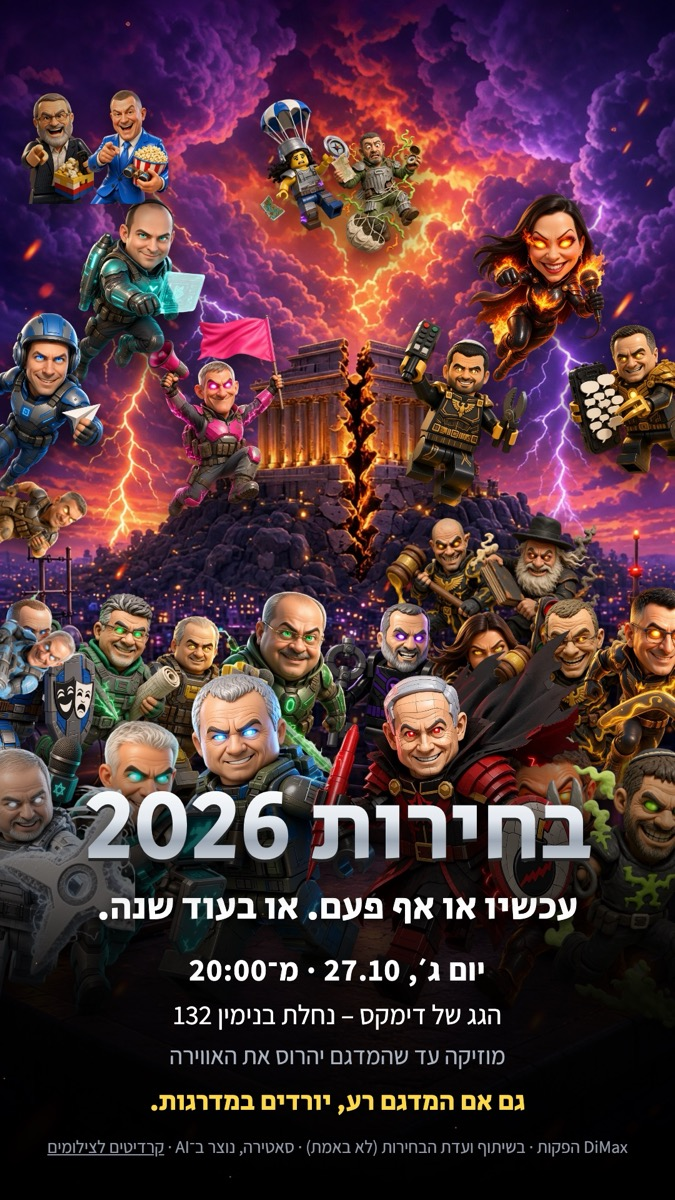
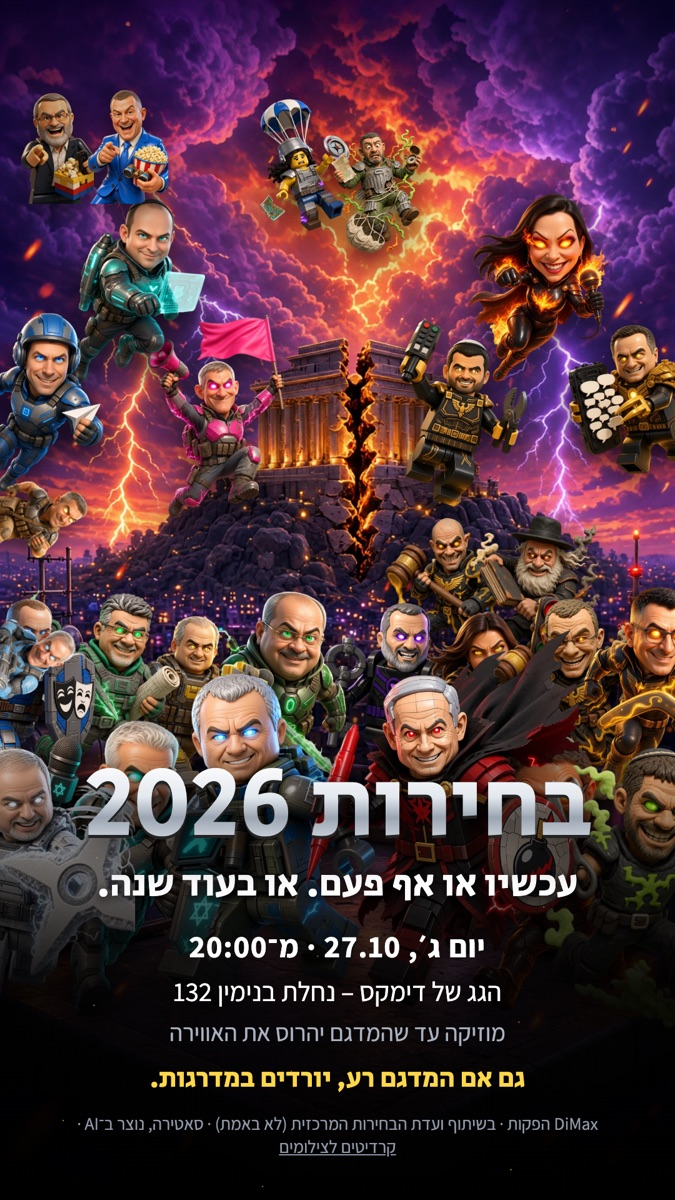
Threshold counts all parties at once, skippable ident, ועדת הבחירות המרכזית, scroll crew removed

Changed region(s): [[0.0622, 0.6167, 0.9022, 0.9867]]

diff --git a/index.html b/index.html
@@ -197,15 +197,8 @@ body.done #more { display: block; }
 ::selection { background: #ffc23a; color: #111; }
 html { scrollbar-color: #3a4266 #07080d; }
 .well { position: sticky; top: 0; height: 100dvh; overflow: hidden; z-index: 0; }
-.well .wall { position: absolute; inset: -2% 0; background: url("img/stairs.jpg") 50% 0 / auto 165% no-repeat; filter: saturate(1.1) brightness(.78); will-change: background-position; }
+.well .wall { position: absolute; inset: -2% 0; background: url("img/stairs.jpg") 50% 40% / cover no-repeat; filter: saturate(1.1) brightness(.7); }
 .well::after { content: ""; position: absolute; inset: 0; pointer-events: none; background: linear-gradient(#07080d 0, transparent 14%, transparent 80%, #07080dcc); }
-.well .floor { position: absolute; top: 9%; inset-inline-end: 5%; direction: ltr; font: italic 900 52cqw/.8 var(--f-mark); font-stretch: 115%; color: #ffffff26; -webkit-text-stroke: .35cqw #ffffff59; mix-blend-mode: screen; pointer-events: none; }
-.crew { position: sticky; top: 0; height: 100dvh; margin-bottom: -100dvh; z-index: 2; pointer-events: none !important; }
-.run { pointer-events: auto; transition: opacity .25s; }
-.run { position: absolute; left: 0; top: 0; width: 30cqw; height: 30cqw; margin: -29cqw 0 0 -15cqw; will-change: transform; cursor: pointer; -webkit-tap-highlight-color: transparent; }
-.run img { width: 100%; height: 100%; object-fit: contain; object-position: bottom; filter: drop-shadow(0 2cqw 1.5cqw #000c); pointer-events: none; }
-.run img.flip { scale: -1 1; }
-.run::after { content: ""; position: absolute; left: 22%; right: 22%; bottom: -1cqw; height: 3cqw; border-radius: 50%; background: radial-gradient(closest-side, #000a, transparent); z-index: -1; }
 .lvls { position: relative; z-index: 1; margin-top: -100dvh; pointer-events: none; }
 .lvls > * { pointer-events: auto; }
 .gap { height: 42dvh; pointer-events: none !important; }
@@ -499,13 +492,13 @@ function select() {                                   // returns its length in m
   if (!DQ_SHOWN && RISKY.length) {
     DQ_SHOWN = true; info.innerHTML = `<b style="font-weight:400;font-size:6.4cqw">${C.select.threshold_title}</b>`;
     b = 900;
-    RISKY.forEach((r) => { at(b, () => r.ids.forEach((id) => {
+    RISKY.forEach((r) => { at(b, () => r.ids.forEach((id) => {   // all at-risk parties count at the same time
       const t = tiles[id], m = el('div', `vm`, '<s></s><i></i><b dir="ltr">0.0%</b>'); t.classList.add('risk'); t.append(m); sfx('bar', .4);
       const fill = m.querySelector('i'), num = m.querySelector('b'), t0 = performance.now(), cap = 6;
       A(fill, [{ width: '0%' }, { width: `${r.v / cap * 100}%` }], { duration: 1300, easing: r.fail ? 'cubic-bezier(.2,.8,.4,1)' : 'ease-in-out' });
       const iv = setInterval(() => { const k = Math.min(1, (performance.now() - t0) / 1300); num.textContent = (r.v * k).toFixed(1) + '%'; if (k >= 1) clearInterval(iv); }, 40);
-      setTimeout(() => { t.classList.remove('risk'); m.classList.add(r.fail ? 'fail' : 'pass'); if (r.fail) knock(id, true); else { sfx('confirm', .35); A(t, [{ filter: 'brightness(1.6)' }, { filter: 'none' }], { duration: 400 }); setTimeout(() => A(m, [{ opacity: 1 }, { opacity: 0 }], { duration: 400 }), 500); } }, 1450); })); b += 2300; });
-    b += 300; at(b - 200, () => { info.innerHTML = ''; });
+      setTimeout(() => { t.classList.remove('risk'); m.classList.add(r.fail ? 'fail' : 'pass'); if (r.fail) knock(id, true); else { sfx('confirm', .35); A(t, [{ filter: 'brightness(1.6)' }, { filter: 'none' }], { duration: 400 }); setTimeout(() => A(m, [{ opacity: 1 }, { opacity: 0 }], { duration: 400 }), 500); } }, 1450); })); });
+    b += 2300 + 300; at(b - 200, () => { info.innerHTML = ''; });
   } else OUT.forEach((id) => tiles[id] && knock(id, false));   // replays: they are already out
   const wander = (pool) => pool.filter((id) => ![P1, P2, DUO?.id].includes(id) && !OUT.has(id)).sort(() => Math.random() - .5).slice(0, 4);
   const intruder = SAME ? (Rs.includes(P1) ? 'p2' : 'p1') : null;   // the cursor that has no business on the other team
@@ -731,8 +724,8 @@ const ICON = { replay: '<svg class="ic" viewBox="0 0 20 20" aria-hidden="true"><
 function buildMore() {
   const d = C.details, q = encodeURIComponent(C.links.address), wa = C.links.whatsapp;
   more.innerHTML = `
-    <div class="well" aria-hidden="true"><div class="wall"></div><b class="floor">5</b></div>
-    <div class="lvls"><div class="crew"></div>
+    <div class="well" aria-hidden="true"><div class="wall"></div></div>
+    <div class="lvls">
       <div class="gap"></div>
       <section class="brief" aria-label="${d.title}"><h2>${d.title}</h2>
         <dl>${d.rows.map((r) => `<dt>${r.k}</dt><dd>${chunks(r.v)}</dd>`).join('')}</dl>
@@ -777,66 +770,6 @@ function buildMore() {
   new IntersectionObserver(([e]) => { clearInterval(tick); tick = null; if (e.isIntersecting) { step(); tick = setInterval(step, 1000); } }, { threshold: .6 }).observe(cont);
 }
 
-// The stairwell crew: scroll is the joystick. Scrolling runs them down the stairs, flinging fast makes them fly-kick,
-// stopping makes them square up and trade a hit. Tap one to make it punch.
-const CREW = (() => {
-  let runners = [], raf = 0, lastY = 0, vel = 0, dist = 0, still = 0, spar = false, active = false;
-  const well = () => more.querySelector('.well');
-  function start() {
-    const crew = more.querySelector('.crew'), pool = [...R, ...L].map((r) => r[0]);
-    const ids = [...new Set([...(LAST || []), ...pool.sort(() => Math.random() - .5)])].slice(0, 5);
-    crew.innerHTML = '';
-    runners = ids.map((id, i) => {
-      const n = el('div', 'run'), img = Object.assign(new Image(), { src: POSE(id, 'stance'), alt: '' }); n.append(img); crew.append(n);
-      const r = { id, n, img, ph: i * .37 + Math.random() * .2, sp: .8 + Math.random() * .5, y: null, pose: 'stance', lock: 0 };
-      n.onclick = () => strike(r); return r;
-    });
-    if (!active) { active = true; lastY = scrollY; raf = requestAnimationFrame(loop); }
-  }
-  const setPose = (r, p) => { if (r.pose !== p) { r.pose = p; r.img.src = POSE(r.id, p); } };
-  function strike(r, target) {                         // one punch, and whoever it lands on reels
-    const now = performance.now(); r.lock = now + 420; setPose(r, 'punch'); sfx('whoosh', .35);
-    const t = target || runners.filter((o) => o !== r).sort((a, b) => Math.abs(a.x - r.x) - Math.abs(b.x - r.x))[0];
-    if (t) setTimeout(() => { t.lock = performance.now() + 380; setPose(t, 'hit'); sfx(pick(['hit1', 'hit2']), .45);
-      if (!RM) t.n.animate([{ translate: '0 0' }, { translate: `${(t.x > r.x ? 1 : -1) * 4}cqw 0` }, { translate: '0 0' }], { duration: 320, easing: 'ease-out' }); }, 160);
-  }
-  function loop(now) {
-    raf = requestAnimationFrame(loop);
-    const w = well(); if (!w) return;
-    const top = more.offsetTop, span = Math.max(1, more.offsetHeight - innerHeight), p = Math.min(1, Math.max(0, (scrollY - top) / span));
-    const dy = scrollY - lastY; lastY = scrollY; vel = vel * .8 + dy * .2; dist += Math.abs(dy);
-    w.querySelector('.wall').style.backgroundPositionY = `${p * 100}%`;
-    w.querySelector('.floor').textContent = Math.max(0, 5 - Math.floor(p * 6));
-    const moving = Math.abs(vel) > .6;
-    if (moving) { still = now; spar = false; if (dist > 260) { dist = 0; sfx('step', .18); } }
-    else if (!spar && now - still > 450 && now - still < 2000 && runners.length > 1 && (scrollY > top - innerHeight)) { spar = true; strike(pick(runners)); }
-    // the panels are platforms: everyone stands on the top edge of whatever is on screen and jumps between them
-    const box = more.querySelector('.crew').getBoundingClientRect(), ih = innerHeight;
-    const ledges = [...more.querySelectorAll('.brief, .cont')].map((n) => n.getBoundingClientRect());
-    const fr = more.querySelector('.foot').getBoundingClientRect(), solids = [...ledges, { top: fr.top + fr.height * .3, bottom: fr.bottom }];   // credits: they leave the stage
-    const covered = (y) => solids.some((q) => q.top < y - 2 && q.bottom > y);          // an edge inside another panel is not standable
-    const tops = ledges.map((q) => q.top).filter((y) => y > ih * .12 && y < ih * .97 && !covered(y));
-    const floorFree = !solids.some((q) => q.top < ih * .96 && q.bottom > ih * .96);
-    const ground = tops.length ? Math.min(...tops) : floorFree ? ih * .96 : null;      // the highest free ledge keeps them off the buttons
-    runners.forEach((r, i) => {
-      const u = (RM ? 0 : p * 7 * r.sp) + r.ph, f = u % 2, x = 8 + (f < 1 ? f : 2 - f) * 84, dir = f < 1 ? 1 : -1;   // back and forth along the platform
-      const hop = moving ? Math.abs(Math.sin(dist / 38 + i)) * Math.min(18, Math.abs(vel) * 1.5) : 0;
-      const goal = ground == null ? r.y ?? ih : ground - box.top;
-      r.y = r.y == null || RM ? goal : r.y + (goal - r.y) * .22;
-      const air = Math.abs(goal - r.y) > 14;
-      if (air && !r.air && goal < r.y) sfx('jump', .2);
-      if (!air && r.air) sfx('land', .22);
-      r.air = air; r.x = x;
-      r.n.style.opacity = ground == null ? 0 : 1;
-      r.n.style.transform = `translate(${x}cqw, ${r.y - hop}px)`;
-      r.img.classList.toggle('flip', dir * (vel >= 0 ? 1 : -1) < 0);
-      if (now < r.lock) return;
-      setPose(r, air || Math.abs(vel) > 22 ? 'kick' : !moving ? 'stance' : (Math.floor(dist / 70 + i) % 2 ? 'kick' : 'stance'));
-    });
-  }
-  function stop() { active = false; cancelAnimationFrame(raf); }
-  return { start, stop };
-})();
 
 // ---------- UI ----------
 function showCredits() {
@@ -851,11 +784,12 @@ const paintSnd = () => { if (!sndBtn) return; sndBtn.textContent = soundOn ? C.u
 const showSnd = () => { if (!sndBtn) sndBtn = uiBtn('snd', '', () => { soundOn = !soundOn; if (soundOn) unlock(); if (bus) bus.master.gain.setTargetAtTime(soundOn ? .8 : 0, AC.currentTime, .05); paintSnd(); }); paintSnd(); };
 
 function reset() { timers.forEach(clearTimeout); timers = []; FX.clear(); stopAll(); cam.getAnimations().forEach((a) => a.cancel()); cam.innerHTML = ''; cam.style.opacity = 1;
-  cam.classList.remove('glitching'); document.body.classList.remove('done'); CREW.stop();
+  cam.classList.remove('glitching'); document.body.classList.remove('done');
   document.getElementById('credits')?.remove(); [skipBtn, againBtn, downBtn].forEach((b) => b?.remove()); skipBtn = againBtn = downBtn = null; }
 
 // 1. DiMax ident (silent: the page has had no tap yet)  2. arcade start screen  3. the trailer  4. text last  5. scroll for details
-function boot() { reset(); soundOn = false; rollStyles(false); rollThreshold(); rollFighters(); ident(); at(7700, startScreen); }
+function boot() { reset(); soundOn = false; rollStyles(false); rollThreshold(); rollFighters(); ident(); at(7700, startScreen);
+  skipBtn = uiBtn('skip', C.ui.skip, () => { track('skip_logo'); startScreen(); }); }   // startScreen's reset() removes the chip
 function startScreen() {
   reset(); cam.style.background = 'radial-gradient(ellipse at 50% 35%, #1a2140, #05060b 75%)';
   const ghosts = el('div', 'ghosts');
@@ -875,7 +809,7 @@ function startScreen() {
   s.querySelector('#goMute').onclick = () => go(false);
 }
 function end() {
-  skipBtn?.remove(); skipBtn = null; document.body.classList.add('done'); CREW.start(); track('finish');
+  skipBtn?.remove(); skipBtn = null; document.body.classList.add('done'); track('finish');
   againBtn = uiBtn('again', `${C.ui.again} ${ICON.replay}`, () => { track('again'); C = resolve(RAW); rollFighters(); trailer(); });
   downBtn = uiBtn('down', `${C.details.scroll} ${ICON.down}`, () => track('scroll_btn') || more.scrollIntoView({ behavior: 'smooth' }));
 }
